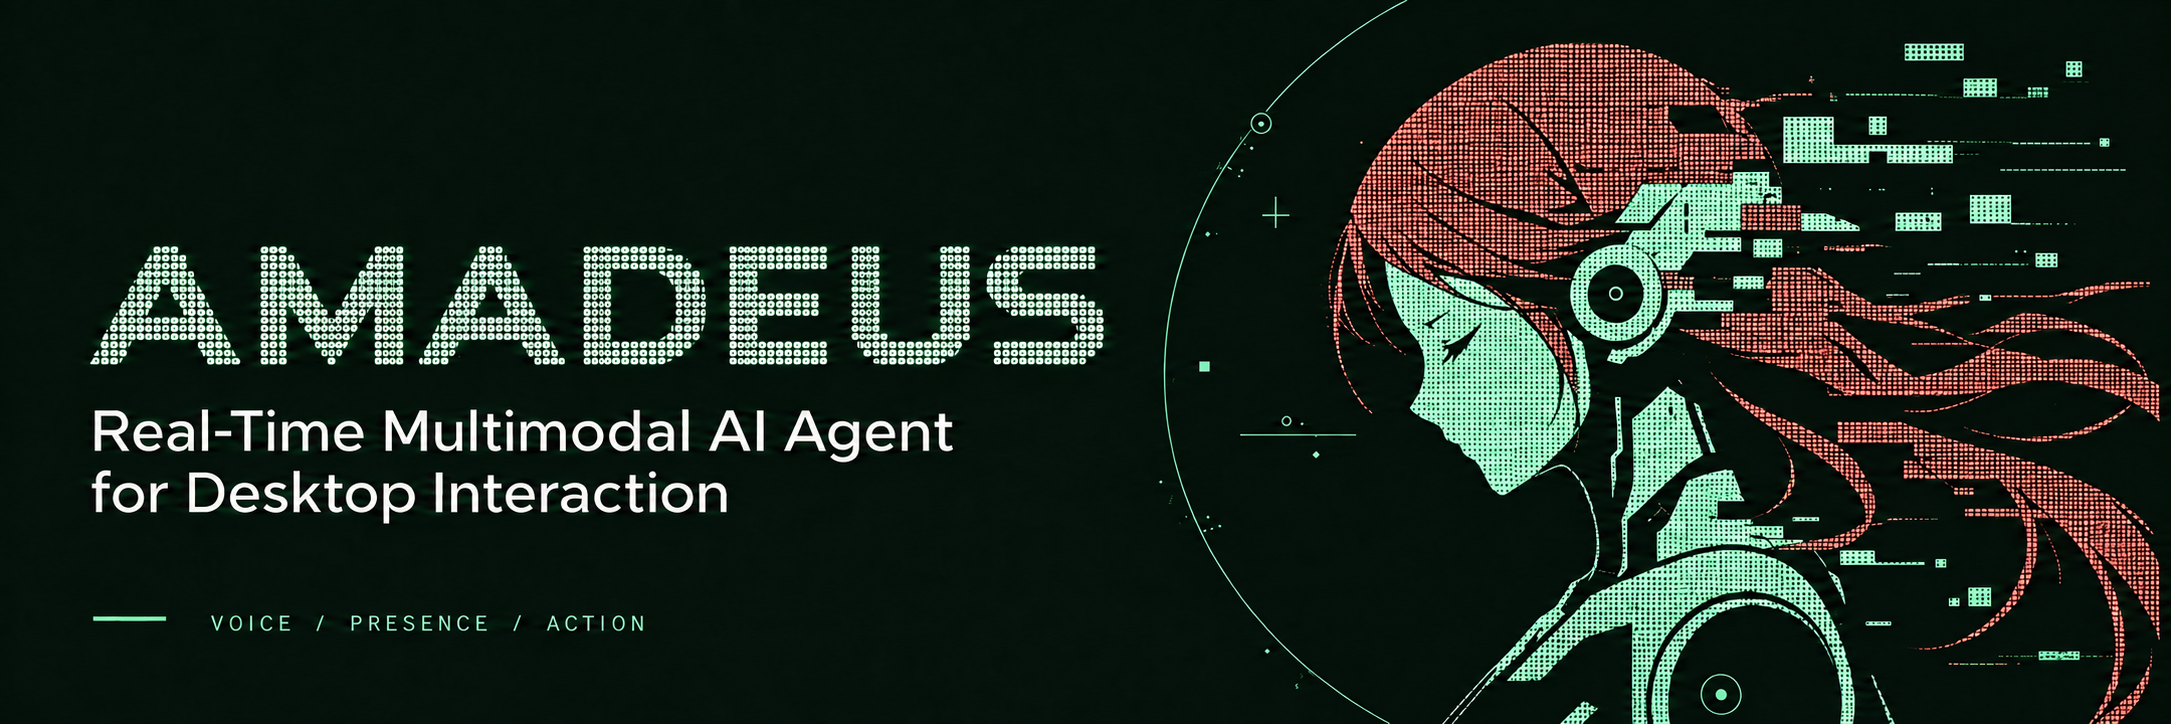
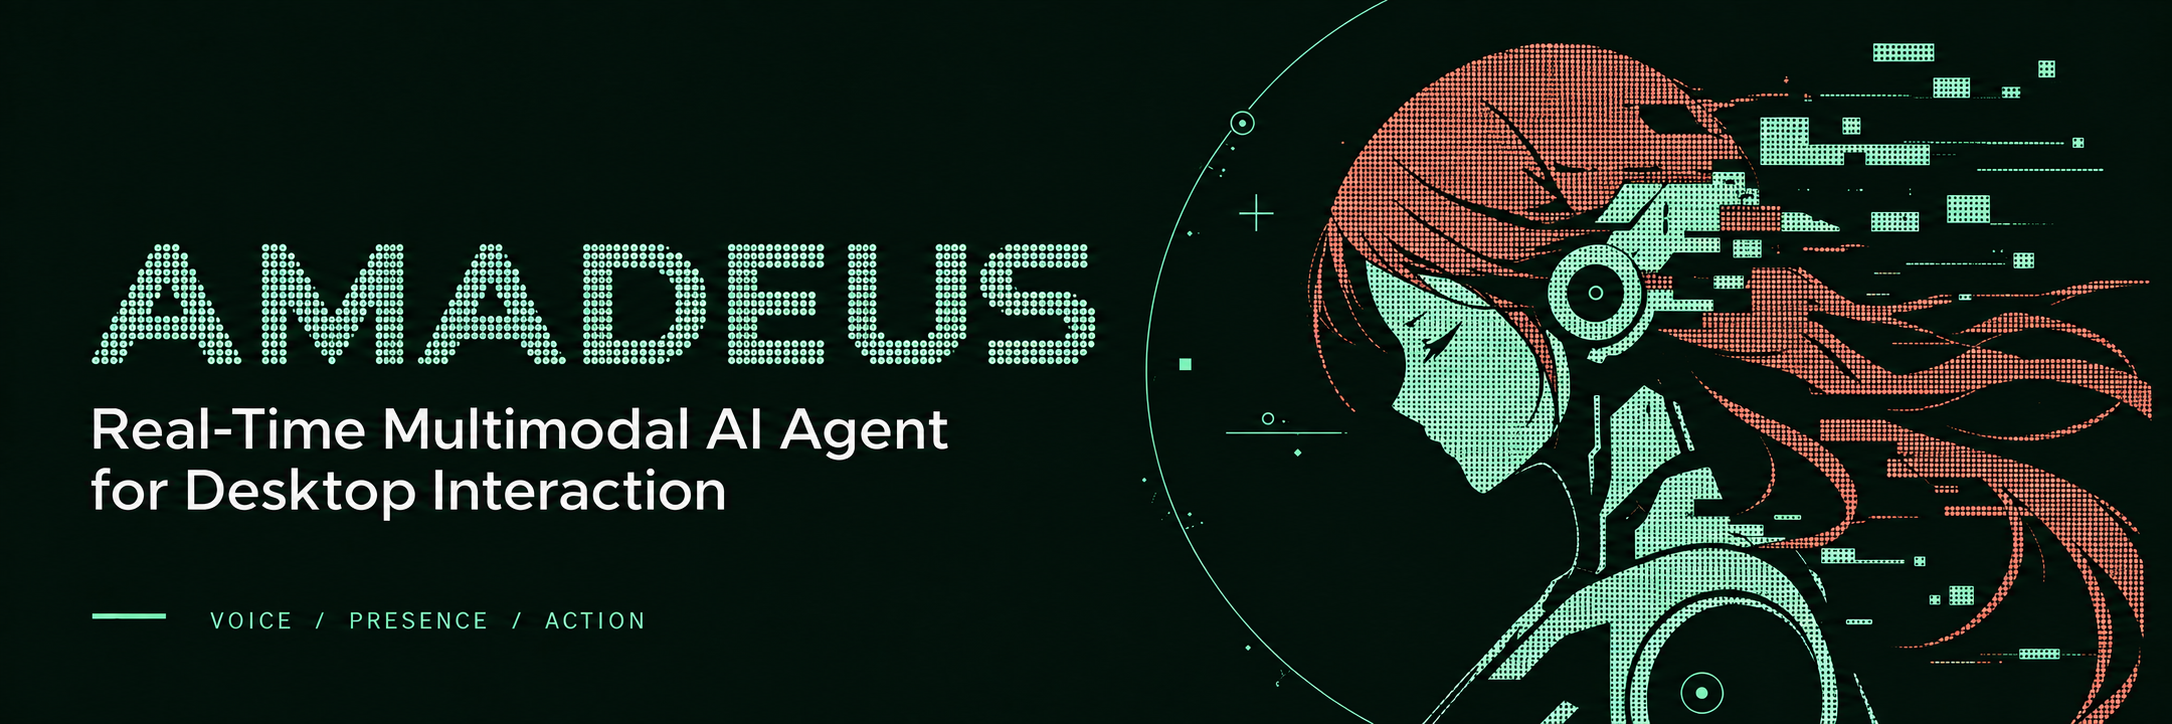
docs: refine README header and guide downstream feedback

diff --git a/assets/demo/amadeus-header-layered.source.md b/assets/demo/amadeus-header-layered.source.md
@@ -1,13 +1,21 @@
 # Amadeus header with separately processed character
 
-Created with three built-in ImageGen edits. First, the character from the
+Created with built-in ImageGen edits. First, the character from the
 [original organization header](https://github.com/Code-Amadeus/.github/blob/fbbfc221d43d415dbe865566ccccc94625ecd1d3/profile/assets/code-amadeus-hero.png)
 was processed as the separate `amadeus-character-projection.png` panel,
 preserving source detail and distinguishing hair, face, headset and clothing.
 The approved panel was then combined with the dotted AMADEUS wordmark and
-Real-Time subtitle. A final selective color edit changed only the character's
-hair to coral-red halftone, retaining the mint-green face, headset and clothing.
-The separate green character panel is retained as the pre-color-edit source;
+Real-Time subtitle. After red/white and all-green color studies, the current
+revision refines the original red-haired design: muted coral hair, soft pale
+mint face/headset/clothing, and a cleaner dot matrix with restrained contrast.
+The final prompt requests stable material color levels and even mark size,
+spacing and coverage, especially across the face, instead of random highlights
+or density changes. The original red-haired banner is the edit target; the
+clean green study is a supporting texture reference. The green study drew on
+the [resource website artwork](https://code-amadeus.github.io/assets/character.png),
+which is identical to the retained `amadeus-character-projection.png` panel.
+The full banner layout, text and recognizable character drawing are retained.
+The separate green character panel is retained as the source reference;
 superseded header concepts are not part of the published asset set.
 
 This is brand artwork, not an application screenshot. The source character's
@@ -72,3 +80,66 @@ clothing, text, background or arc. Keep the same clean fine halftone dots, no
 blur, no added glow or shadow, no new elements, no smoothing or simplification.
 Return just the edited image without framing. This is a comparison variant to
 assess selective red hair against the existing green design.
+
+## White character edit prompt
+
+Use case: precise-object-edit.
+Asset type: Amadeus README banner.
+Input: the supplied full 2171x724 PNG is the edit target. Keep its complete wide 3:1 composition.
+User request: make the ENTIRE right-side character feel cleaner and fresher by changing ALL of her mint-green dots/glyphs to neutral white, while retaining her coral-red hair.
+Recolor the face, circular headset (including its little inner ring), neck, collar, shoulder plates, clothing seams, shoulder circular detail, and ALL rectangular signal/dissolving fragments belonging to the character on the right to neutral soft white (main marks approximately #ededeb, brighter marks #f7f7f5). Absolutely no green or cyan tint should remain anywhere in the character or its dissolving signal fragments. Coral-red crown, bangs and flowing hair remain coral-red with the same shapes.
+Make the white treatment restrained, crisp and airy: fine consistent dot sizes, black separation between dots, clean silhouettes, no green halos, no extra bloom or fog, no heavy glowing masses. Remove only accidental isolated speckle and colored fringe around the character; retain the deliberate pixel disintegration. Keep the original intricate halftone structure and dark internal seams. Do not turn dotted surfaces into solid fills, or simplify hair/headset/facial anatomy.
+Preserve the exact bowed left-facing profile, closed eyelid, nose, chin, hair arrangement, headset structure, clothing, and scale. No redesign or new decorative elements.
+The LEFT wordmark and all typography stay visually exactly as supplied, retaining their current colors, positions, scale and lettering:
+"AMADEUS"
+"Real-Time Multimodal AI Agent"
+"for Desktop Interaction"
+"VOICE / PRESENCE / ACTION".
+Retain the dark near-black background and the restrained thin green outer arc and its left-side HUD marks; avoid added background texture or glow. Leave plenty of dark negative space.
+Return just the complete banner, no crop, no frame, no explanation.
+
+## Clean green revision prompt
+
+Use case: precise-object-edit / style-transfer.
+Asset type: Amadeus README header, complete 2172x724 wide 3:1 banner.
+IMAGE 1 is the EDIT TARGET: the full README banner. Preserve its overall layout, exact left wording, proportions, character pose and recognizable source silhouette.
+IMAGE 2 is the STYLE AND COLOR REFERENCE: the actual green character art used on the Code Amadeus resource website. Use its calm monochromatic mint/jade palette, fine graphic detail, black negative space and restrained brightness. Do not copy its taller framing into the banner.
+
+The user's objection is that the red-and-white right side feels disconnected from the green left side, and that arbitrary changes in dot density look dirty. Produce ONE cohesive, cleaner all-green version:
+- Recolor ALL right-side character elements, including all hair, face, headset, neck, collar, shoulder and all signal fragments, into the same restrained mint/jade family as the left wordmark. No red, coral, orange or pure white remains in the character.
+- Use only two or three flat, deliberate green levels: a medium jade for the hair, a soft light mint for face/headset/clothing, subdued mint for fine accents. Maintain one constant level across each continuous material region. Do not add random brightness changes, mottled patches or gradients within a face, lock of hair, or clothing panel.
+- Critically, regularize the character's dot matrix: a single fine, evenly spaced, orderly orthogonal grid with consistent small mark size and consistent coverage. Uniform pitch and density across neighboring regions; their color/brightness defines material hierarchy, NOT random changes in density. Keep substantial clean black gaps between marks so the image does not become a solid luminous mass when seen at README width. At the target resolution aim for roughly 4px center spacing and fine 1.5–2px marks, visually consistent rather than an oversized polka-dot filter. Do not reproduce the reference's incidental dot noise or irregular scattered glyphs.
+- Preserve intentional large black hair separations, fine wisps, closed eyelid, nose/chin profile, headset circle, collar and shoulder seams, and intentional rightward rectangular dissolution. No anatomy changes, no invented hair ribbons, no added blocks.
+- The left AMADEUS wordmark keeps its exact shape, scale and location and remains dotted; tidy only stray halos/noise so it belongs to the same crisp visual family. Keep the exact subtitle lines and typography, with a very pale mint near-white that fits the restrained green palette. Keep the original footer.
+- Keep the original full composition, margins and dark negative space, with a quiet near-black background. Remove the murky green haze and unnecessary scattered noise. Outer arc and small HUD details stay thin and subordinate. No blooms, shadows, fog, scanline overlays, grain, simulated distressed print, vignette glare, new ornaments, boxes or frame.
+
+Exact text, unchanged:
+AMADEUS
+Real-Time Multimodal AI Agent
+for Desktop Interaction
+VOICE / PRESENCE / ACTION
+
+Goal: as calm, clean and monochromatically coherent as the green resource website image, with MORE stable dot sampling. A precise digital graphic, not a random texture effect. Keep the full original banner canvas and all essential drawing details.
+
+## Refined coral and mint revision prompt
+
+Use case: precise-object-edit.
+Asset: the Amadeus README banner, complete wide 3:1 composition, approximately 2172x724.
+IMAGE 1 is the EDIT TARGET: the original coral-haired / mint-character banner. Preserve its exact character drawing, typography, placement and overall proportions.
+IMAGE 2 is a SUPPORTING REFERENCE for cleaner sampling and restrained contrast: the all-green revision. Borrow only its calmer visual texture. The final image must have RED HAIR, not green hair.
+
+Refine the original banner rather than redesigning it. The user's goal is a cleaner face and cleaner flat color levels, while retaining the red-haired identity:
+1. Hair: muted, slightly desaturated dusty coral, around #c0786c. One stable midtone over each continuous hair region, at most one restrained darker level where the original separation needs it. No bright orange, pink-white highlights, random sparkling dots, mottled patches or gradient shading. Preserve every main hair split, fringe, wispy edge and flowing strand.
+2. Face, headset, neck, collar, shoulder and signal fragments: a unified soft pale mint around #b2d5c1, with at most one quieter mint tone for secondary details. Especially on the FACE, use a calm uniform field of marks. No whitening the cheek, no bright noisy forehead/chin patches, no random green-to-white variation.
+3. CLEAN DOT MATRIX is the main work, not merely changing hue. Make marks small, crisp and evenly spaced on an orderly grid. Maintain constant dot size and pitch, with consistent coverage across the interior of each material. Use color levels and the original black linework to define form, never random stippling or arbitrary local density changes. Clear black air between marks; avoid dense surfaces that merge into a luminous slab at README display width. Do not turn the face into a solid fill, or use giant dots. Do not draw artificial concentric contour bands or fake shading gradients.
+4. Keep facial anatomy, closed eyelid, nose, lips, chin, circular headphones, seams and black negative-space channels intact. Retain the intentional horizontal dissolving fragments, but remove incidental isolated speckle and fuzzy colored halos.
+5. Preserve IMAGE 1's entire left text region EXACTLY: dotted AMADEUS shape, its scale and location; subtitle font, line breaks, spacing and positions; footer. The right-side mint should harmonize with the wordmark, and should not overwhelm it.
+6. Keep the quiet near-black green background, fine arc and sparse HUD details. No added grain, glows, fog, noisy texture, bloom, shadows, decorations or frames.
+
+Exact unchanged text:
+"AMADEUS"
+"Real-Time Multimodal AI Agent"
+"for Desktop Interaction"
+"VOICE / PRESENCE / ACTION"
+
+Final palette: restrained dusty coral hair + soft pale mint character and wordmark + near-black negative space. A precise, calm digital graphic. Return one complete final banner.

diff --git a/AGENTS.md b/AGENTS.md
@@ -11,3 +11,35 @@ These rules apply to implementation, repair, refactoring, and test work in this 
 - Test semantic contracts and user-visible outcomes rather than incidental wording, filenames, timing, or tool order unless those details are themselves part of the contract. Cover both sides of a boundary so a fix cannot merely trade one regression for another.
 - Before retaining a compatibility path or workaround, prove that a live caller still needs it. Remove superseded defenses and update the relevant tests and documentation when a structural fix replaces them.
 - Optimize for code that a new maintainer can explain from its invariants. Elegance here means fewer independent rules, clear ownership, observable failure, and no loss of necessary safety—not merely fewer lines.
+
+## Downstream feedback to upstream
+
+When downstream development uncovers a bug, continue the local fix and prepare a
+short upstream report when the evidence below supports one. Reporting must not
+block local work.
+
+- Verify the canonical upstream repository and current revision; record the checked commit. Compare the affected upstream implementation with local changes. Report a concrete upstream defect supported by a minimal reproduction on unmodified upstream, or directly verifiable upstream code evidence. Distinguish observed results from inference and state anything untested. Local customization conflicts or unsupported environment differences alone are not upstream bugs; keep uncertain findings as local notes until verified.
+- Include only relevant environment facts: OS/version, CPU architecture, runtime/dependency versions, and GPU/driver or provider/model versions when needed. Use synthetic inputs and short sanitized evidence. Remove credentials, usernames, personal paths, device identifiers, private endpoints, conversations, and proprietary material; do not upload raw logs or full configuration dumps. Follow [SECURITY.md](SECURITY.md) for security-sensitive findings.
+- Check existing issues and fixes before proposing a new issue. Keep one defect per report; prefer an existing issue for new evidence, fix validation, or changed upstream status. Avoid duplicate or repetitive updates.
+- Draft locally first. Show the sanitized report and destination to the user before publishing, and obtain permission unless an existing explicit authorization already covers that submission or follow-up. This guidance alone does not authorize posting, monitoring, telemetry, or automatic uploads.
+- If a local fix offers useful insight, ask its author for permission to share a brief Markdown implementation note. Summarize the owning layer, key change, validation, and limitations; omit private code and unrelated customizations. Permission to report the bug does not grant permission to share the implementation. Follow [CONTRIBUTING.md](CONTRIBUTING.md) for any later code contribution.
+
+Use this compact issue body; omit irrelevant environment fields and the optional
+implementation note when it is not approved:
+
+```markdown
+## Problem
+<User-visible failure and impact; expected vs. actual behavior.>
+
+## Upstream check
+<Repository + checked commit/date; relevant local differences and how they were
+excluded; clean reproduction or upstream file/line evidence; remaining uncertainty.>
+
+## Environment and evidence (sanitized)
+<Relevant OS/architecture/runtime/dependency versions; GPU/driver/provider if relevant.>
+<Minimal steps or test command + observed result; short log excerpt or code permalink.>
+<Related issue/fix, if any.>
+
+## Optional implementation note (author-approved)
+<Owning layer; key idea; before/after validation; tradeoffs and limits.>
+```

diff --git a/README.md b/README.md
@@ -1,6 +1,6 @@
 <div align="center">
 
-<p><img src="./assets/demo/amadeus-header-layered.png" width="1100" alt="Amadeus — Real-Time Multimodal AI Agent for Desktop Interaction. Mint-green glyph projection of an anime character with coral-red halftone hair."/></p>
+<p><img src="./assets/demo/amadeus-header-layered.png" width="1100" alt="Amadeus — Real-Time Multimodal AI Agent for Desktop Interaction. Mint-green dot-matrix wordmark and anime character with muted coral-red hair on a near-black background."/></p>
 
 <p><picture>
   <source media="(max-width: 600px)" srcset="./assets/header-strip.en.mobile.svg"/>

diff --git a/README_ZH.md b/README_ZH.md
@@ -1,6 +1,6 @@
 <div align="center">
 
-<p><img src="./assets/demo/amadeus-header-layered.png" width="1100" alt="Amadeus — 实时多模态桌面交互 AI Agent。薄荷绿色字符投影的二次元角色，搭配珊瑚红色点阵头发。"/></p>
+<p><img src="./assets/demo/amadeus-header-layered.png" width="1100" alt="Amadeus — 实时多模态桌面交互 AI Agent。薄荷绿色点阵标题与二次元角色、柔和珊瑚红色头发，搭配近黑色背景。"/></p>
 
 <p><picture>
   <source media="(max-width: 600px)" srcset="./assets/header-strip.zh.mobile.svg"/>
